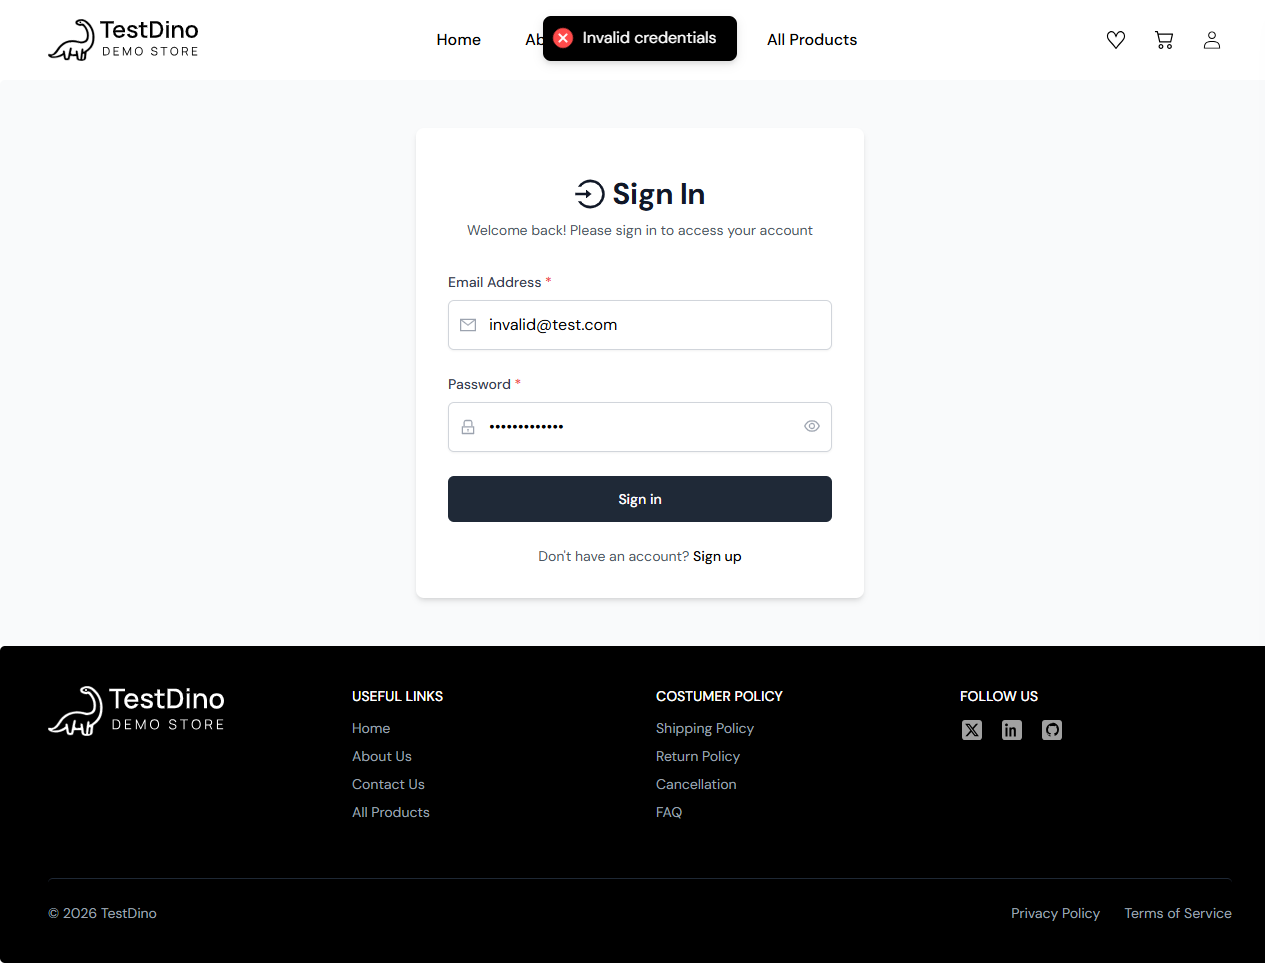
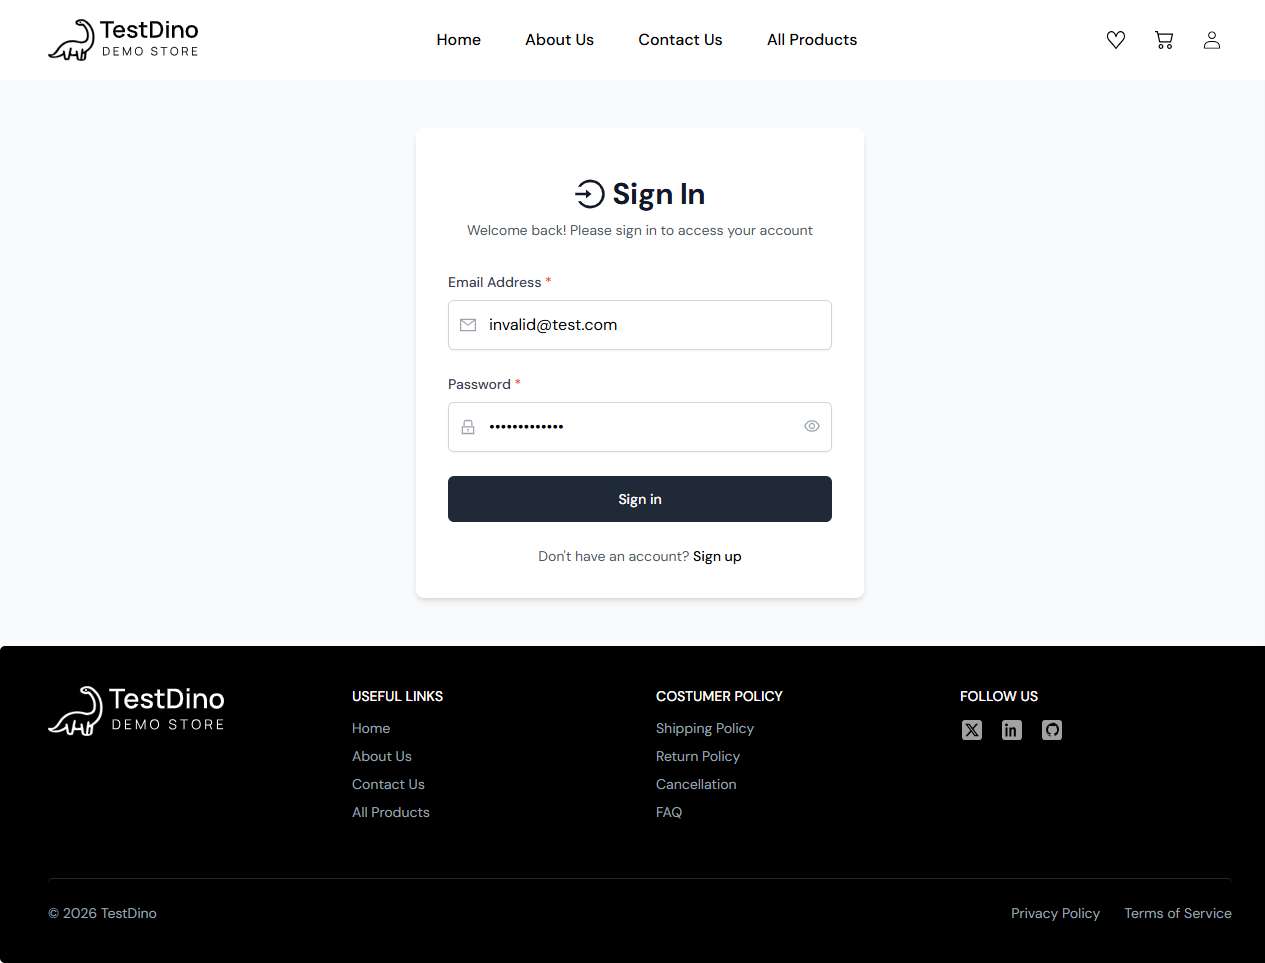
Add HTML test report and screenshot assertions

Changed region(s): [[0.4316, 0.0, 0.5858, 0.0623]]

diff --git a/report.html b/report.html
@@ -328,7 +328,7 @@ div.media {
   </head>
   <body>
     <h1 id="title">report.html</h1>
-    <p>Report generated on 27-May-2026 at 16:09:29 by <a href="https://pypi.python.org/pypi/pytest-html">pytest-html</a>
+    <p>Report generated on 29-May-2026 at 14:21:26 by <a href="https://pypi.python.org/pypi/pytest-html">pytest-html</a>
         v4.2.0</p>
     <div id="environment-header">
       <h2>Environment</h2>
@@ -383,7 +383,7 @@ div.media {
         <h2>Summary</h2>
         <div class="additional-summary prefix">
         </div>
-        <p class="run-count">5 tests took 00:02:07.</p>
+        <p class="run-count">5 tests took 00:02:08.</p>
         <p class="filter">(Un)check the boxes to filter the results.</p>
         <div class="summary__reload">
           <div class="summary__reload__button hidden" onclick="location.reload()">
@@ -431,7 +431,7 @@ div.media {
       </thead>
     </table>
   <footer>
-    <div id="data-container" data-jsonblob="{&#34;environment&#34;: {&#34;Python&#34;: &#34;3.13.0rc3&#34;, &#34;Platform&#34;: &#34;Windows-11-10.0.26200-SP0&#34;, &#34;Packages&#34;: {&#34;pytest&#34;: &#34;9.0.3&#34;, &#34;pluggy&#34;: &#34;1.6.0&#34;}, &#34;Plugins&#34;: {&#34;html&#34;: &#34;4.2.0&#34;, &#34;metadata&#34;: &#34;3.1.1&#34;}, &#34;JAVA_HOME&#34;: &#34;C:\\Program Files\\Java\\jdk-21&#34;}, &#34;tests&#34;: {&#34;tests/cart_test.py::test_cart&#34;: [{&#34;extras&#34;: [], &#34;result&#34;: &#34;Passed&#34;, &#34;testId&#34;: &#34;tests/cart_test.py::test_cart&#34;, &#34;duration&#34;: &#34;00:00:41&#34;, &#34;resultsTableRow&#34;: [&#34;&lt;td class=\&#34;col-result\&#34;&gt;Passed&lt;/td&gt;&#34;, &#34;&lt;td class=\&#34;col-testId\&#34;&gt;tests/cart_test.py::test_cart&lt;/td&gt;&#34;, &#34;&lt;td class=\&#34;col-duration\&#34;&gt;00:00:41&lt;/td&gt;&#34;, &#34;&lt;td class=\&#34;col-links\&#34;&gt;&lt;/td&gt;&#34;], &#34;log&#34;: &#34;----------------------------- Captured stdout call -----------------------------\nProducto agregado al carrito correctamente\n&#34;}], &#34;tests/favorites_test.py::test_favorites&#34;: [{&#34;extras&#34;: [], &#34;result&#34;: &#34;Passed&#34;, &#34;testId&#34;: &#34;tests/favorites_test.py::test_favorites&#34;, &#34;duration&#34;: &#34;00:00:24&#34;, &#34;resultsTableRow&#34;: [&#34;&lt;td class=\&#34;col-result\&#34;&gt;Passed&lt;/td&gt;&#34;, &#34;&lt;td class=\&#34;col-testId\&#34;&gt;tests/favorites_test.py::test_favorites&lt;/td&gt;&#34;, &#34;&lt;td class=\&#34;col-duration\&#34;&gt;00:00:24&lt;/td&gt;&#34;, &#34;&lt;td class=\&#34;col-links\&#34;&gt;&lt;/td&gt;&#34;], &#34;log&#34;: &#34;----------------------------- Captured stdout call -----------------------------\nProducto agregado a favoritos correctamente\n&#34;}], &#34;tests/home_test.py::test_home&#34;: [{&#34;extras&#34;: [], &#34;result&#34;: &#34;Passed&#34;, &#34;testId&#34;: &#34;tests/home_test.py::test_home&#34;, &#34;duration&#34;: &#34;00:00:12&#34;, &#34;resultsTableRow&#34;: [&#34;&lt;td class=\&#34;col-result\&#34;&gt;Passed&lt;/td&gt;&#34;, &#34;&lt;td class=\&#34;col-testId\&#34;&gt;tests/home_test.py::test_home&lt;/td&gt;&#34;, &#34;&lt;td class=\&#34;col-duration\&#34;&gt;00:00:12&lt;/td&gt;&#34;, &#34;&lt;td class=\&#34;col-links\&#34;&gt;&lt;/td&gt;&#34;], &#34;log&#34;: &#34;----------------------------- Captured stdout call -----------------------------\nHome cargado correctamente\n&#34;}], &#34;tests/login_invalid_test.py::test_login_invalid&#34;: [{&#34;extras&#34;: [], &#34;result&#34;: &#34;Passed&#34;, &#34;testId&#34;: &#34;tests/login_invalid_test.py::test_login_invalid&#34;, &#34;duration&#34;: &#34;00:00:22&#34;, &#34;resultsTableRow&#34;: [&#34;&lt;td class=\&#34;col-result\&#34;&gt;Passed&lt;/td&gt;&#34;, &#34;&lt;td class=\&#34;col-testId\&#34;&gt;tests/login_invalid_test.py::test_login_invalid&lt;/td&gt;&#34;, &#34;&lt;td class=\&#34;col-duration\&#34;&gt;00:00:22&lt;/td&gt;&#34;, &#34;&lt;td class=\&#34;col-links\&#34;&gt;&lt;/td&gt;&#34;], &#34;log&#34;: &#34;----------------------------- Captured stdout call -----------------------------\nLogin inv\u00e1lido validado correctamente\n&#34;}], &#34;tests/login_valid_test.py::test_login_invalid&#34;: [{&#34;extras&#34;: [], &#34;result&#34;: &#34;Passed&#34;, &#34;testId&#34;: &#34;tests/login_valid_test.py::test_login_invalid&#34;, &#34;duration&#34;: &#34;00:00:27&#34;, &#34;resultsTableRow&#34;: [&#34;&lt;td class=\&#34;col-result\&#34;&gt;Passed&lt;/td&gt;&#34;, &#34;&lt;td class=\&#34;col-testId\&#34;&gt;tests/login_valid_test.py::test_login_invalid&lt;/td&gt;&#34;, &#34;&lt;td class=\&#34;col-duration\&#34;&gt;00:00:27&lt;/td&gt;&#34;, &#34;&lt;td class=\&#34;col-links\&#34;&gt;&lt;/td&gt;&#34;], &#34;log&#34;: &#34;----------------------------- Captured stdout call -----------------------------\nLogin ejecutado correctamente\n&#34;}]}, &#34;renderCollapsed&#34;: [&#34;passed&#34;], &#34;initialSort&#34;: &#34;result&#34;, &#34;title&#34;: &#34;report.html&#34;}"></div>
+    <div id="data-container" data-jsonblob="{&#34;environment&#34;: {&#34;Python&#34;: &#34;3.13.0rc3&#34;, &#34;Platform&#34;: &#34;Windows-11-10.0.26200-SP0&#34;, &#34;Packages&#34;: {&#34;pytest&#34;: &#34;9.0.3&#34;, &#34;pluggy&#34;: &#34;1.6.0&#34;}, &#34;Plugins&#34;: {&#34;html&#34;: &#34;4.2.0&#34;, &#34;metadata&#34;: &#34;3.1.1&#34;}, &#34;JAVA_HOME&#34;: &#34;C:\\Program Files\\Java\\jdk-21&#34;}, &#34;tests&#34;: {&#34;tests/cart_test.py::test_cart&#34;: [{&#34;extras&#34;: [], &#34;result&#34;: &#34;Passed&#34;, &#34;testId&#34;: &#34;tests/cart_test.py::test_cart&#34;, &#34;duration&#34;: &#34;00:00:52&#34;, &#34;resultsTableRow&#34;: [&#34;&lt;td class=\&#34;col-result\&#34;&gt;Passed&lt;/td&gt;&#34;, &#34;&lt;td class=\&#34;col-testId\&#34;&gt;tests/cart_test.py::test_cart&lt;/td&gt;&#34;, &#34;&lt;td class=\&#34;col-duration\&#34;&gt;00:00:52&lt;/td&gt;&#34;, &#34;&lt;td class=\&#34;col-links\&#34;&gt;&lt;/td&gt;&#34;], &#34;log&#34;: &#34;----------------------------- Captured stdout call -----------------------------\nProducto agregado al carrito correctamente\n&#34;}], &#34;tests/favorites_test.py::test_favorites&#34;: [{&#34;extras&#34;: [], &#34;result&#34;: &#34;Passed&#34;, &#34;testId&#34;: &#34;tests/favorites_test.py::test_favorites&#34;, &#34;duration&#34;: &#34;00:00:24&#34;, &#34;resultsTableRow&#34;: [&#34;&lt;td class=\&#34;col-result\&#34;&gt;Passed&lt;/td&gt;&#34;, &#34;&lt;td class=\&#34;col-testId\&#34;&gt;tests/favorites_test.py::test_favorites&lt;/td&gt;&#34;, &#34;&lt;td class=\&#34;col-duration\&#34;&gt;00:00:24&lt;/td&gt;&#34;, &#34;&lt;td class=\&#34;col-links\&#34;&gt;&lt;/td&gt;&#34;], &#34;log&#34;: &#34;----------------------------- Captured stdout call -----------------------------\nProducto agregado a favoritos correctamente\n&#34;}], &#34;tests/home_test.py::test_home&#34;: [{&#34;extras&#34;: [], &#34;result&#34;: &#34;Passed&#34;, &#34;testId&#34;: &#34;tests/home_test.py::test_home&#34;, &#34;duration&#34;: &#34;00:00:02&#34;, &#34;resultsTableRow&#34;: [&#34;&lt;td class=\&#34;col-result\&#34;&gt;Passed&lt;/td&gt;&#34;, &#34;&lt;td class=\&#34;col-testId\&#34;&gt;tests/home_test.py::test_home&lt;/td&gt;&#34;, &#34;&lt;td class=\&#34;col-duration\&#34;&gt;00:00:02&lt;/td&gt;&#34;, &#34;&lt;td class=\&#34;col-links\&#34;&gt;&lt;/td&gt;&#34;], &#34;log&#34;: &#34;----------------------------- Captured stdout call -----------------------------\nHome cargado correctamente\n&#34;}], &#34;tests/login_invalid_test.py::test_login_invalid&#34;: [{&#34;extras&#34;: [], &#34;result&#34;: &#34;Passed&#34;, &#34;testId&#34;: &#34;tests/login_invalid_test.py::test_login_invalid&#34;, &#34;duration&#34;: &#34;00:00:22&#34;, &#34;resultsTableRow&#34;: [&#34;&lt;td class=\&#34;col-result\&#34;&gt;Passed&lt;/td&gt;&#34;, &#34;&lt;td class=\&#34;col-testId\&#34;&gt;tests/login_invalid_test.py::test_login_invalid&lt;/td&gt;&#34;, &#34;&lt;td class=\&#34;col-duration\&#34;&gt;00:00:22&lt;/td&gt;&#34;, &#34;&lt;td class=\&#34;col-links\&#34;&gt;&lt;/td&gt;&#34;], &#34;log&#34;: &#34;----------------------------- Captured stdout call -----------------------------\nLogin inv\u00e1lido validado correctamente\n&#34;}], &#34;tests/login_valid_test.py::test_login_valid&#34;: [{&#34;extras&#34;: [], &#34;result&#34;: &#34;Passed&#34;, &#34;testId&#34;: &#34;tests/login_valid_test.py::test_login_valid&#34;, &#34;duration&#34;: &#34;00:00:27&#34;, &#34;resultsTableRow&#34;: [&#34;&lt;td class=\&#34;col-result\&#34;&gt;Passed&lt;/td&gt;&#34;, &#34;&lt;td class=\&#34;col-testId\&#34;&gt;tests/login_valid_test.py::test_login_valid&lt;/td&gt;&#34;, &#34;&lt;td class=\&#34;col-duration\&#34;&gt;00:00:27&lt;/td&gt;&#34;, &#34;&lt;td class=\&#34;col-links\&#34;&gt;&lt;/td&gt;&#34;], &#34;log&#34;: &#34;----------------------------- Captured stdout call -----------------------------\nLogin ejecutado correctamente\n&#34;}]}, &#34;renderCollapsed&#34;: [&#34;passed&#34;], &#34;initialSort&#34;: &#34;result&#34;, &#34;title&#34;: &#34;report.html&#34;}"></div>
     <script>
       (function(){function r(e,n,t){function o(i,f){if(!n[i]){if(!e[i]){var c="function"==typeof require&&require;if(!f&&c)return c(i,!0);if(u)return u(i,!0);var a=new Error("Cannot find module '"+i+"'");throw a.code="MODULE_NOT_FOUND",a}var p=n[i]={exports:{}};e[i][0].call(p.exports,function(r){var n=e[i][1][r];return o(n||r)},p,p.exports,r,e,n,t)}return n[i].exports}for(var u="function"==typeof require&&require,i=0;i<t.length;i++)o(t[i]);return o}return r})()({1:[function(require,module,exports){
 const { getCollapsedCategory, setCollapsedIds } = require('./storage.js')